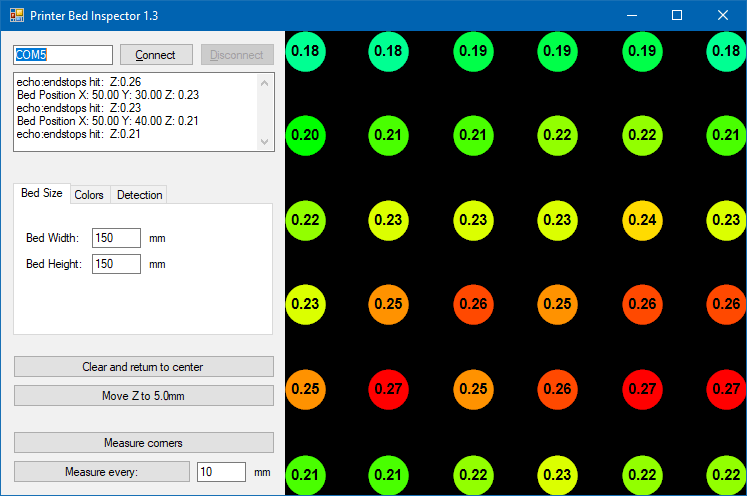
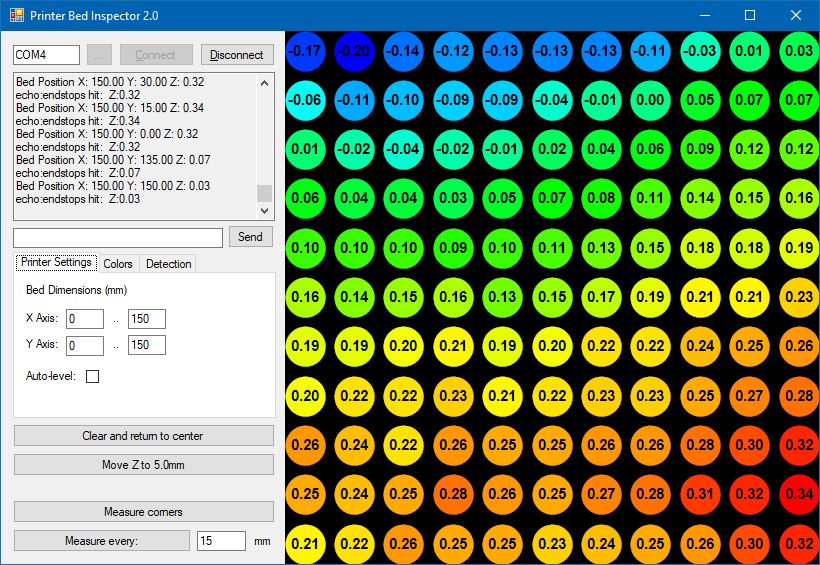
Rolling to v2

diff --git a/Properties/AssemblyInfo.cs b/Properties/AssemblyInfo.cs
@@ -31,5 +31,5 @@ using System.Runtime.InteropServices;
 // You can specify all the values or you can default the Build and Revision Numbers
 // by using the '*' as shown below:
 // [assembly: AssemblyVersion("1.0.*")]
-[assembly: AssemblyVersion("1.3.0.0")]
-[assembly: AssemblyFileVersion("1.3.0.0")]
+[assembly: AssemblyVersion("2.0.0.0")]
+[assembly: AssemblyFileVersion("2.0.0.0")]
